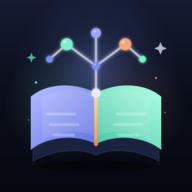
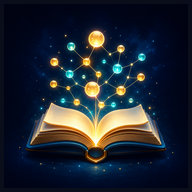
Nuevo icono de app Memorable (libro + constelación)
- Reemplazar PWA 192/512/maskable, apple-touch y favicons con el arte nuevo
- Referencias PNG+SVG en index, SEO head y assets del VitePWA

+14 −41

diff --git a/vite.config.ts b/vite.config.ts
@@ -43,7 +43,15 @@ export default defineConfig(({ mode }) => {
       versionJsonPlugin(version),
       VitePWA({
         registerType: 'autoUpdate',
-        includeAssets: ['favicon.svg', 'pwa-icon-192.png', 'pwa-icon-512.png', 'apple-touch-icon.png'],
+        includeAssets: [
+          'favicon.svg',
+          'favicon.png',
+          'favicon-32.png',
+          'pwa-icon-192.png',
+          'pwa-icon-512.png',
+          'pwa-icon-512-maskable.png',
+          'apple-touch-icon.png',
+        ],
         manifest: {
           name: 'Memorable Summaries',
           short_name: 'Summaries',

diff --git a/scripts/seo-build-utils.ts b/scripts/seo-build-utils.ts
@@ -125,7 +125,8 @@ export function escapeHtml(value: string): string {
 export function renderAppHeadTags(): string {
 	const base = escapeHtml(getBuildBasePath());
 
-	return `    <link rel="icon" type="image/svg+xml" href="${base}favicon.svg" />
+	return `    <link rel="icon" type="image/png" sizes="48x48" href="${base}favicon.png" />
+    <link rel="icon" type="image/svg+xml" href="${base}favicon.svg" />
     <meta name="theme-color" content="#0a0e1a" />
     <meta name="mobile-web-app-capable" content="yes" />
     <meta name="apple-mobile-web-app-status-bar-style" content="black-translucent" />

diff --git a/index.html b/index.html
@@ -2,6 +2,7 @@
 <html lang="es">
   <head>
     <meta charset="UTF-8" />
+    <link rel="icon" type="image/png" sizes="48x48" href="%BASE_URL%favicon.png" />
     <link rel="icon" type="image/svg+xml" href="%BASE_URL%favicon.svg" />
     <meta name="viewport" content="width=device-width, initial-scale=1, maximum-scale=1, minimum-scale=1, user-scalable=no, viewport-fit=cover" />
     <meta name="description" content="Memorable Summaries — resúmenes interactivos para memorizar libros" />
